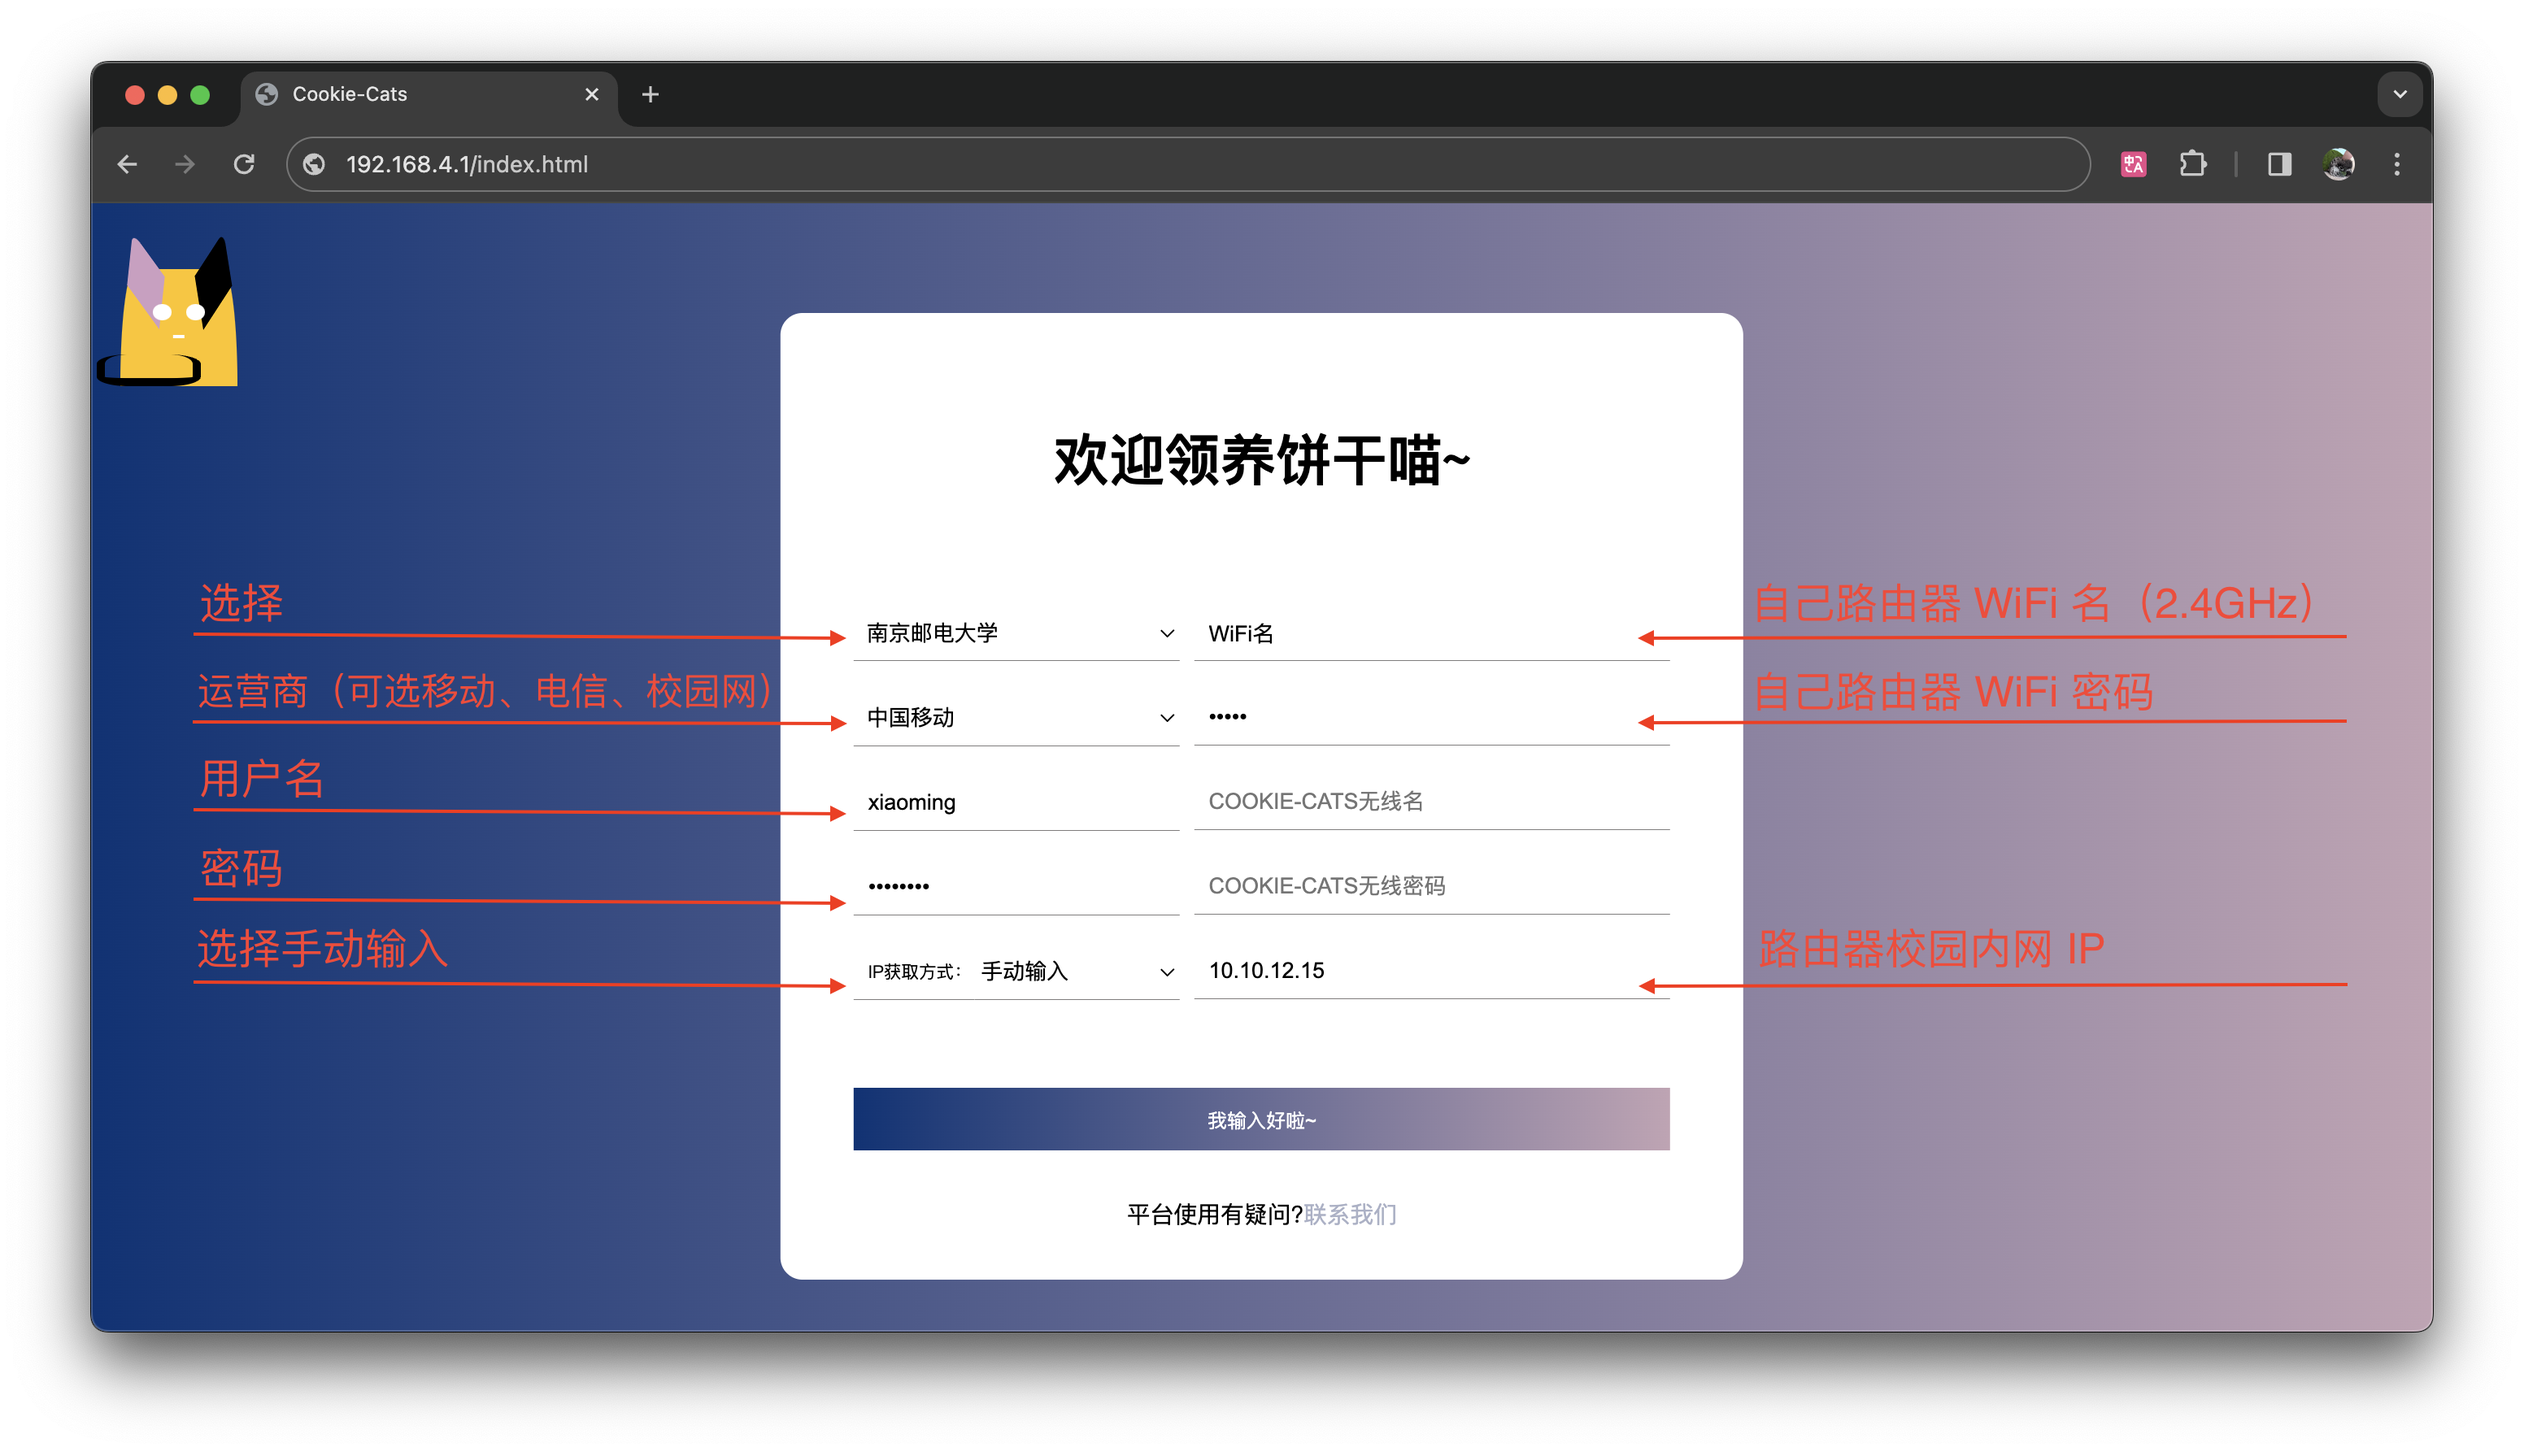
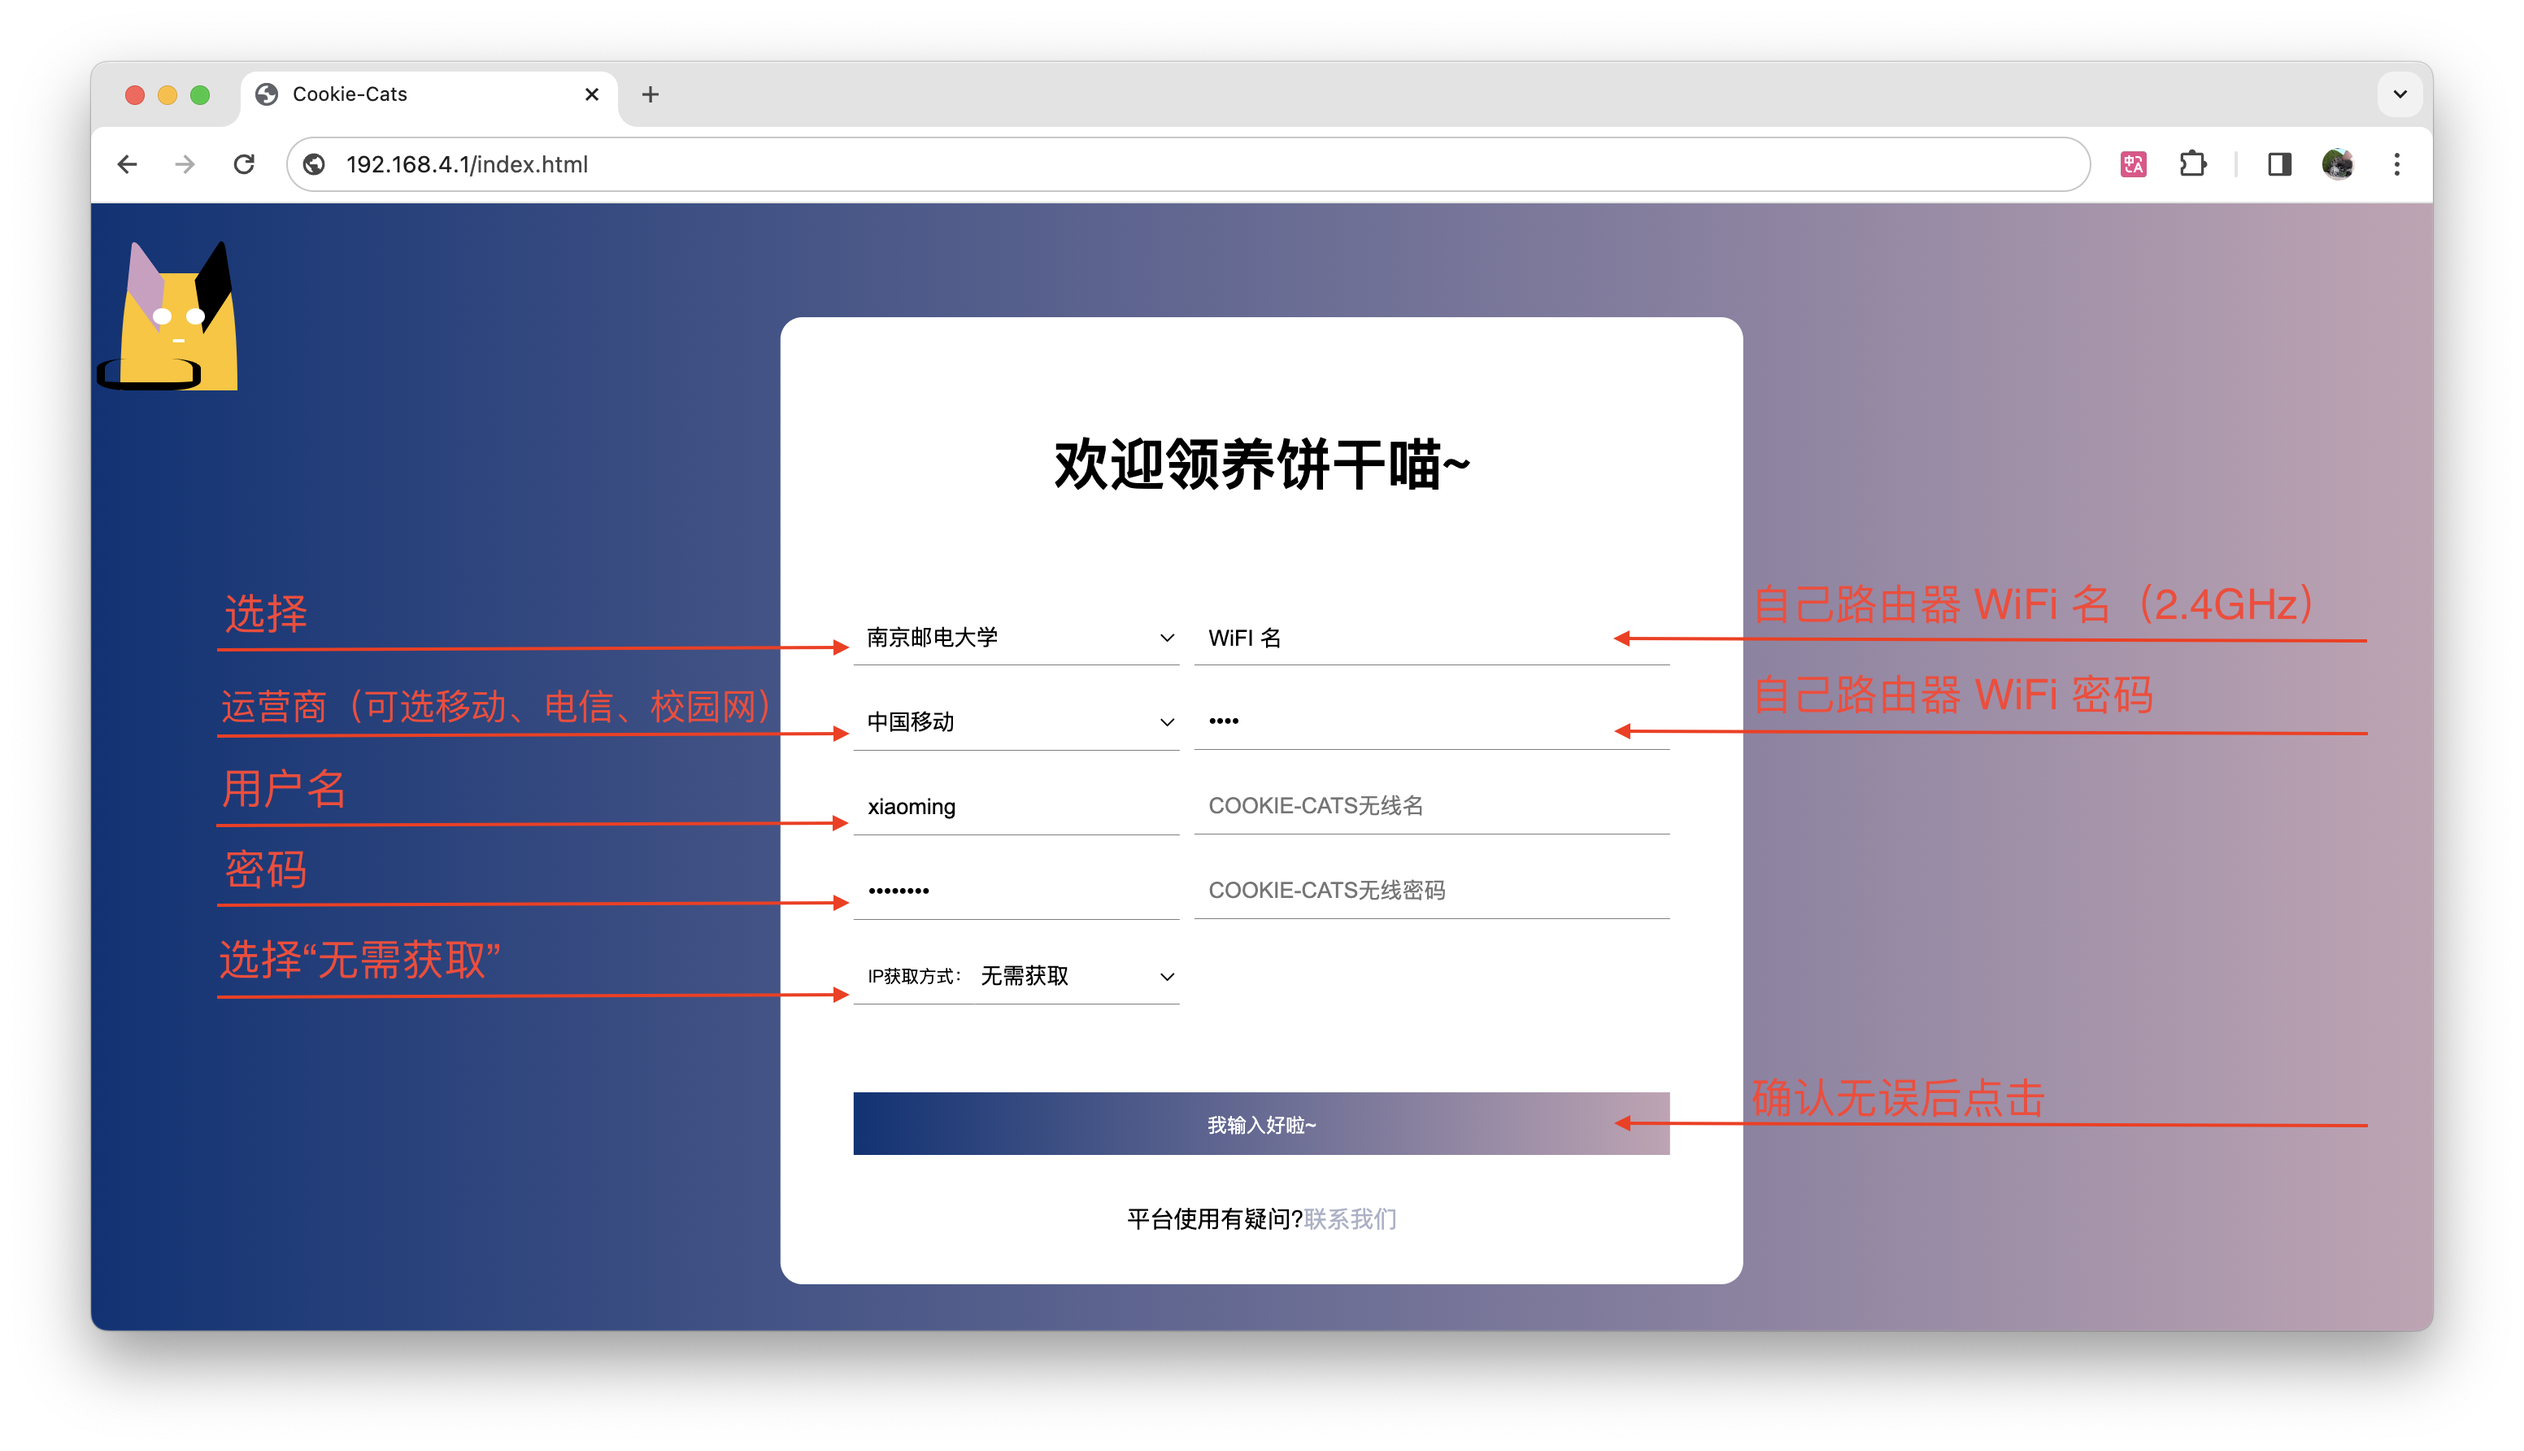
增加南京邮电大学从DrCOM API获取IP Thanks: @kurtleee

diff --git a/Cookie-Cats/auth.cpp b/Cookie-Cats/auth.cpp
@@ -9,8 +9,7 @@ using namespace std;
 // drcom 网页认证
 bool ICACHE_FLASH_ATTR drcomWebAuth(String authURL) {
   Serial.println(F("Sending auth message..."));
-  HttpResponse response;
-  response = sendHttpRequest(authURL);  // 发送 HTTP 请求
+  HttpResponse response = sendHttpRequest(authURL);  // 发送 HTTP 请求
 
   bool authSuccess = false;
   if (response.status_code == HTTP_CODE_OK) {  // 返回 200，连接成功
@@ -44,8 +43,7 @@ bool ICACHE_FLASH_ATTR drcomWebAuth(String authURL) {
 */
 String ICACHE_FLASH_ATTR getDrcomIp(String apiURL) {
   Serial.println(F("Try to get IP by Drcom API..."));
-  HttpResponse response;
-  response = sendHttpRequest(apiURL);  // 发送 HTTP 请求
+  HttpResponse response = sendHttpRequest(apiURL);  // 发送 HTTP 请求
 
   String IP;
   if (response.status_code == HTTP_CODE_OK) {  // 返回 200，连接成功
@@ -79,11 +77,12 @@ String ICACHE_FLASH_ATTR getDrcomIp(String apiURL) {
 // 中国药科大学
 // 状态：已实现|已验证
 bool ICACHE_FLASH_ATTR authCPU(Configuration &config) {
-  if (config.carrier == "SchoolNetwork") {                 // 中国药科大学校园网   
-    String IP = getIPFromIPObtainMethod(config);  // 获取 IP
+  if (config.carrier == "SchoolNetwork") {  // 中国药科大学校园网
+    // 获取 IP
+    String IP = getIPFromIPObtainMethod(config);
     if (IP == "0.0.0.0") {  // 未设置 IP 获取方式或选择 unnecessary
       String apiURL = "http://192.168.199.21/drcom/chkstatus?callback=dr1002";
-      IP = getDrcomIp(apiURL);
+      IP = getDrcomIp(apiURL);  // 通过 DrCOM API 获取 IP
     }
 
     // 构造认证 URL
@@ -101,17 +100,34 @@ bool ICACHE_FLASH_ATTR authCPU(Configuration &config) {
 // --------------------------------------------------------------------------------------------------------------------------------
 
 // 南京邮电大学
-// 参考自：https://github.com/Lintkey/njupt_net
+/*
+鸣谢：
+
+参考自：https://github.com/Lintkey/njupt_net
+
+感谢以下同学提供的支持和鼓励（按照时间顺序排列，不分前后）：
+* MartinLingYi @https://github.com/MartinLingYi
+* kurtleee @https://github.com/kurtleee
+
+*/
 // 状态：正在实现|未验证
 bool ICACHE_FLASH_ATTR authNJUPT(Configuration &config) {
+  // 获取 IP
+  // 提供者：kurtleee @https://github.com/kurtleee
+  String IP = getIPFromIPObtainMethod(config);
+  if (IP == "0.0.0.0") {  // 未设置 IP 获取方式或选择 unnecessary
+    String apiURL = "http://10.100.200.3/drcom/chkstatus?callback=dr1002";
+    IP = getDrcomIp(apiURL);  // 通过 DrCOM API 获取 IP
+  }
+
   String username;
   if (config.carrier == "ChinaTelecom") username = ",0," + config.username + "@njxy";      // 电信
   else if (config.carrier == "ChinaMobile") username = ",0," + config.username + "@cmcc";  // 移动
   else if (config.carrier == "SchoolNetwork") username = config.username;                  // 校园网
 
   // 构造认证 URL
-  // 待确认：似乎并没有可用的 DrCOM API 获取 IP
-  String authURL = "https://p.njupt.edu.cn:802/eportal/portal/login?callback=dr1003&login_method=1&user_account=" + username + "&user_password=" + config.password + "&wlan_user_ip=" + config.IP_Obtain_Method.second + "&wlan_user_ipv6=&wlan_user_mac=000000000000&wlan_ac_ip=&wlan_ac_name=&jsVersion=4.1.3&terminal_type=1&lang=zh-cn&v=6407&lang=zh";
+  // 提供者：MartinLingYi @https://github.com/MartinLingYi
+  String authURL = "https://p.njupt.edu.cn:802/eportal/portal/login?callback=dr1003&login_method=1&user_account=" + username + "&user_password=" + config.password + "&wlan_user_ip=" + IP + "&wlan_user_ipv6=&wlan_user_mac=000000000000&wlan_ac_ip=&wlan_ac_name=&jsVersion=4.1.3&terminal_type=1&lang=zh-cn&v=6407&lang=zh";
 
   return drcomWebAuth(authURL);
 }

diff --git a/Cookie-Cats/functions.cpp b/Cookie-Cats/functions.cpp
@@ -385,9 +385,10 @@ void blink(int times) {
 
 // 从 IP_Obtain_Method 获取 IP
 // 当未设置 IP_Obtain_Method 或 IP_Obtain_Method 设置为 unnucessary 时会返回 "0.0.0.0"
-String ICACHE_FLASH_ATTR getIPFromIPObtainMethod(Configuration &config) {
+String ICACHE_FLASH_ATTR getIPFromIPObtainMethod(Configuration& config) {
   if (config.IP_Obtain_Method.first == "") {  // 未设置
-    return "0.0.0.0";
+    String IP = "0.0.0.0";
+    return IP;
   } else if (config.IP_Obtain_Method.first == "meow") {  // meow
     return meow(config.IP_Obtain_Method.second);
   } else {  // unnecessary 或 manual

diff --git a/README.md b/README.md
@@ -92,11 +92,11 @@
 
 参考实现：[kaijy91/NJUPT_NET](https://github.com/kaijy91/NJUPT_NET)
 
-| 类型 | 状态                                                         |
-| ---- | ------------------------------------------------------------ |
-| 实现 | 🚧 \| 🤝                                                       |
-| 验证 | ❌ \| 🤝                                                       |
-| 备注 | 似乎没有可用的 DrCom API 获取 IP；<br />未经过贵校志愿者测试。 |
+| 类型 | 状态                 |
+| ---- | -------------------- |
+| 实现 | 🚧                    |
+| 验证 | ❌ \| 🤝               |
+| 备注 | 等待贵校志愿者测试。 |
 
 设置步骤：
 
